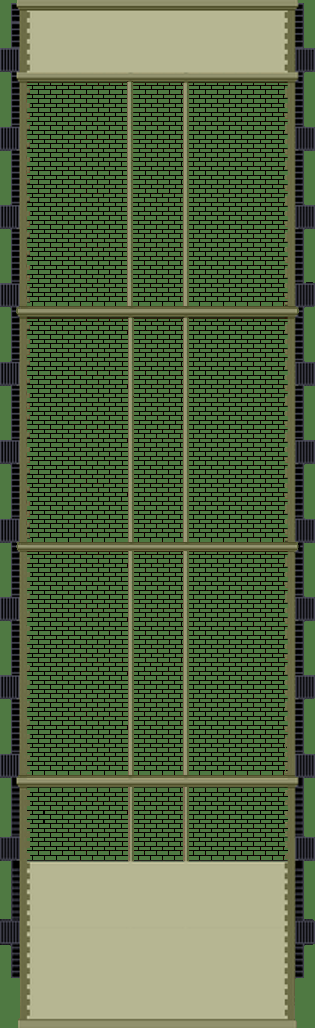
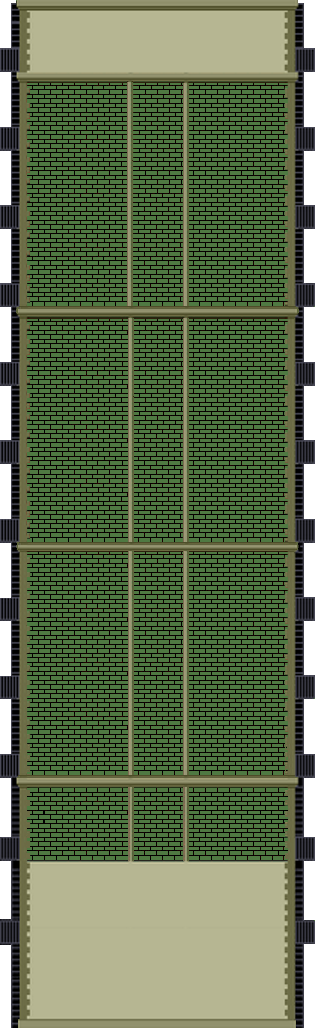
edit building

Changed region(s): [[0.9143, 0.0, 1.0, 1.0], [0.0, 0.0, 0.0857, 1.0]]

diff --git a/core/assets/files/Building.tsx b/core/assets/files/Building.tsx
@@ -1,4 +1,4 @@
 <?xml version="1.0" encoding="UTF-8"?>
-<tileset version="1.4" tiledversion="1.4.2" name="Building" tilewidth="16" tileheight="16" tilecount="1216" columns="19">
+<tileset version="1.4" tiledversion="1.4.2" name="Building" tilewidth="16" tileheight="16" spacing="1" margin="3" tilecount="1080" columns="18">
  <image source="Building.png" width="315" height="1028"/>
 </tileset>

diff --git a/core/assets/files/window.tsx b/core/assets/files/window.tsx
@@ -1,4 +1,4 @@
 <?xml version="1.0" encoding="UTF-8"?>
-<tileset version="1.4" tiledversion="1.4.2" name="window" tilewidth="16" tileheight="16" margin="1" tilecount="6" columns="2">
+<tileset version="1.4" tiledversion="1.4.2" name="window" tilewidth="16" tileheight="16" spacing="1" margin="2" tilecount="6" columns="2">
  <image source="window.png" width="38" height="60"/>
 </tileset>

diff --git a/core/src/com/endgame/game/Screens/PlayScreen.java b/core/src/com/endgame/game/Screens/PlayScreen.java
@@ -47,12 +47,12 @@ public class PlayScreen implements Screen {
         world = new World(new Vector2(0,0),true);
         b2dr = new Box2DDebugRenderer();
 
-//        BodyDef bdef = new BodyDef();
-//        PolygonShape shape = new PolygonShape();
-//        FixtureDef fdef = new FixtureDef();
-//        Body body;
-//
-//        for(MapObject object : map.getLayers().get(2).getObjects());
+        BodyDef bdef = new BodyDef();
+        PolygonShape shape = new PolygonShape();
+        FixtureDef fdef = new FixtureDef();
+        Body body;
+
+        for(MapObject object : map.getLayers().get(2).getObjects());
     }
     public  void handleInput(float dt){
         if(Gdx.input.isTouched()) camera.position.y += 100*dt;
